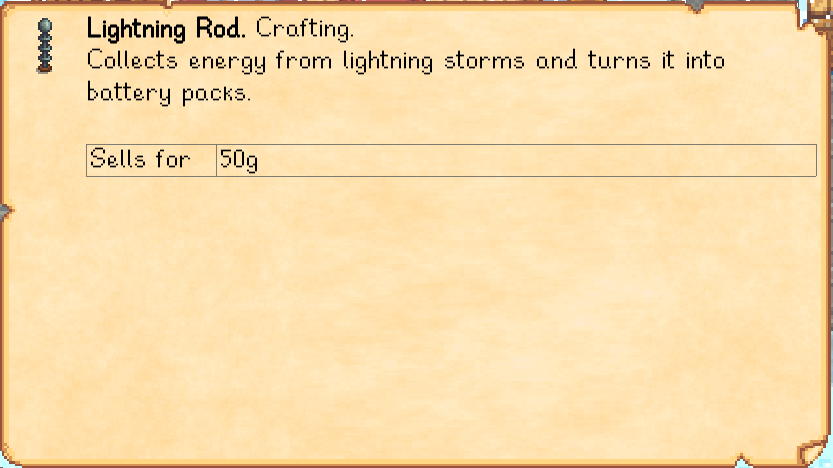
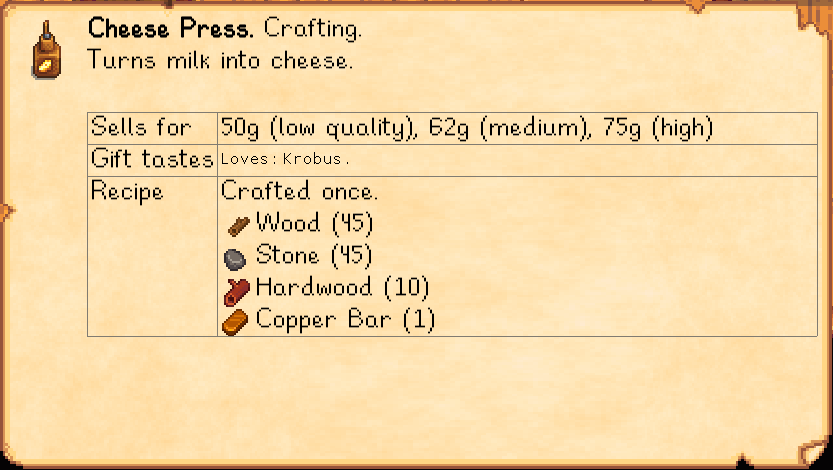
add recipe for craftable items

Changed region(s): [[0.0, 0.0, 1.0, 1.0], [0.8115, 0.0, 0.8739, 0.0299]]

diff --git a/LookupAnything/Framework/Fields/RecipeIngredientsField.cs b/LookupAnything/Framework/Fields/RecipeIngredientsField.cs
@@ -1,0 +1,78 @@
+using System.Collections.Generic;
+using Microsoft.Xna.Framework;
+using Microsoft.Xna.Framework.Graphics;
+using Pathoschild.LookupAnything.Components;
+using StardewValley;
+
+namespace Pathoschild.LookupAnything.Framework.Fields
+{
+    /// <summary>A metadata field which shows recipe ingredients (if the player learned them).</summary>
+    public class RecipeIngredientsField : GenericField
+    {
+        /*********
+        ** Properties
+        *********/
+        /// <summary>The crafting recipe.</summary>
+        private readonly CraftingRecipe Recipe;
+
+        /// <summary>Whether the player knows the recipe.</summary>
+        private readonly bool KnowsRecipe;
+
+
+        /*********
+        ** Public methods
+        *********/
+        /// <summary>Construct an instance.</summary>
+        /// <param name="label">A short field label.</param>
+        /// <param name="recipe">The crafting recipe.</param>
+        public RecipeIngredientsField(string label, CraftingRecipe recipe)
+            : base(label, null, hasValue: true)
+        {
+            this.Recipe = recipe;
+            this.KnowsRecipe = Game1.player.knowsRecipe(recipe.name);
+        }
+
+        /// <summary>Draw the value (or return <c>null</c> to render the <see cref="GenericField.Value"/> using the default format).</summary>
+        /// <param name="sprites">The sprite batch in which to draw.</param>
+        /// <param name="font">The recommended font.</param>
+        /// <param name="position">The position at which to draw.</param>
+        /// <param name="wrapWidth">The maximum width before which content should be wrapped..</param>
+        /// <returns>Returns the drawn dimensions, or <c>null</c> to draw the <see cref="GenericField.Value"/> using the default format.</returns>
+        public override Vector2? DrawValue(SpriteBatch sprites, SpriteFont font, Vector2 position, float wrapWidth)
+        {
+            CraftingRecipe recipe = this.Recipe;
+            bool isCookingRecipe = recipe.isCookingRecipe;
+            float height = 0;
+
+            // recipe summary
+            {
+                string text = recipe.timesCrafted == 0
+                    ? (isCookingRecipe ? "Never cooked." : "Never crafted.")
+                    : $"{(isCookingRecipe ? "Cooked" : "Crafted")} {GameHelper.Pluralise(recipe.timesCrafted, "once", $"{recipe.timesCrafted} times")}.";
+                height += sprites.DrawStringBlock(font, text, position, wrapWidth).Y;
+            }
+
+            // ingredients
+            if (this.KnowsRecipe)
+            {
+                Dictionary<int, int> ingredients = GameHelper.GetPrivateField<Dictionary<int, int>>(recipe, "recipeList");
+                foreach (var ingredient in ingredients)
+                {
+                    // get item
+                    int itemID = ingredient.Key;
+                    int stack = ingredient.Value;
+                    Object item = new Object(itemID, stack);
+
+                    // draw item
+                    float textHeight = font.MeasureString(item.Name).Y;
+                    sprites.DrawBlock(Game1.objectSpriteSheet, Game1.getSourceRectForStandardTileSheet(Game1.objectSpriteSheet, itemID, 16, 16), position.X, position.Y + height, scale: textHeight / 16);
+                    height += sprites.DrawStringBlock(font, $"{item.name} ({stack})", new Vector2(position.X + textHeight + 3, position.Y + height), wrapWidth).Y;
+                }
+            }
+            else
+                height += sprites.DrawStringBlock(font, "(You haven't learned this recipe.)", new Vector2(position.X, position.Y + height), wrapWidth, Color.Gray).Y;
+
+            return new Vector2(wrapWidth, height);
+        }
+    }
+}

diff --git a/LookupAnything/Components/EncyclopediaMenu.cs b/LookupAnything/Components/EncyclopediaMenu.cs
@@ -95,7 +95,7 @@ namespace Pathoschild.LookupAnything.Components
                 if (fields != null && fields.Any())
                 {
                     float cellPadding = 3;
-                    float labelWidth = fields.Max(p => font.MeasureString(p.Label).X);
+                    float labelWidth = fields.Where(p => p.HasValue).Max(p => font.MeasureString(p.Label).X);
                     float valueWidth = wrapWidth - labelWidth - cellPadding * 4;
                     foreach (ICustomField field in fields)
                     {
@@ -120,7 +120,7 @@ namespace Pathoschild.LookupAnything.Components
                         sprites.DrawLine(x + leftOffset + rowSize.X, y + topOffset, new Vector2(borderWidth, rowSize.Y), lineColor); // right
 
                         // update offset
-                        topOffset += valueSize.Y;
+                        topOffset += Math.Max(labelSize.Y, valueSize.Y);
                     }
                 }
             }

diff --git a/LookupAnything/Framework/Subjects/ItemSubject.cs b/LookupAnything/Framework/Subjects/ItemSubject.cs
@@ -34,6 +34,11 @@ namespace Pathoschild.LookupAnything.Framework.Subjects
                 new SaleValueField("Sells for", this.GetSaleValue(item, knownQuality), item.Stack),
                 new GiftTastesForItemField("Gift tastes", this.GetGiftTastes(item), GiftTaste.Love, GiftTaste.Like)
             );
+            if (CraftingRecipe.cookingRecipes.ContainsKey(item.Name) || CraftingRecipe.craftingRecipes.ContainsKey(item.Name))
+            {
+                CraftingRecipe recipe = new CraftingRecipe(item.Name, CraftingRecipe.cookingRecipes.ContainsKey(item.Name));
+                this.AddCustomFields(new RecipeIngredientsField("Recipe", recipe));
+            }
         }
 
         /// <summary>Draw the subject portrait (if available).</summary>

diff --git a/LookupAnything/GameHelper.cs b/LookupAnything/GameHelper.cs
@@ -37,5 +37,14 @@ namespace Pathoschild.LookupAnything
                 .GetField(name, BindingFlags.Instance | BindingFlags.NonPublic)
                 ?.GetValue(parent);
         }
+
+        /// <summary>Select the correct plural form for a word.</summary>
+        /// <param name="count">The number.</param>
+        /// <param name="single">The singular form.</param>
+        /// <param name="plural">The plural form.</param>
+        public static string Pluralise(int count, string single, string plural)
+        {
+            return count == 1 ? single : plural;
+        }
     }
 }
